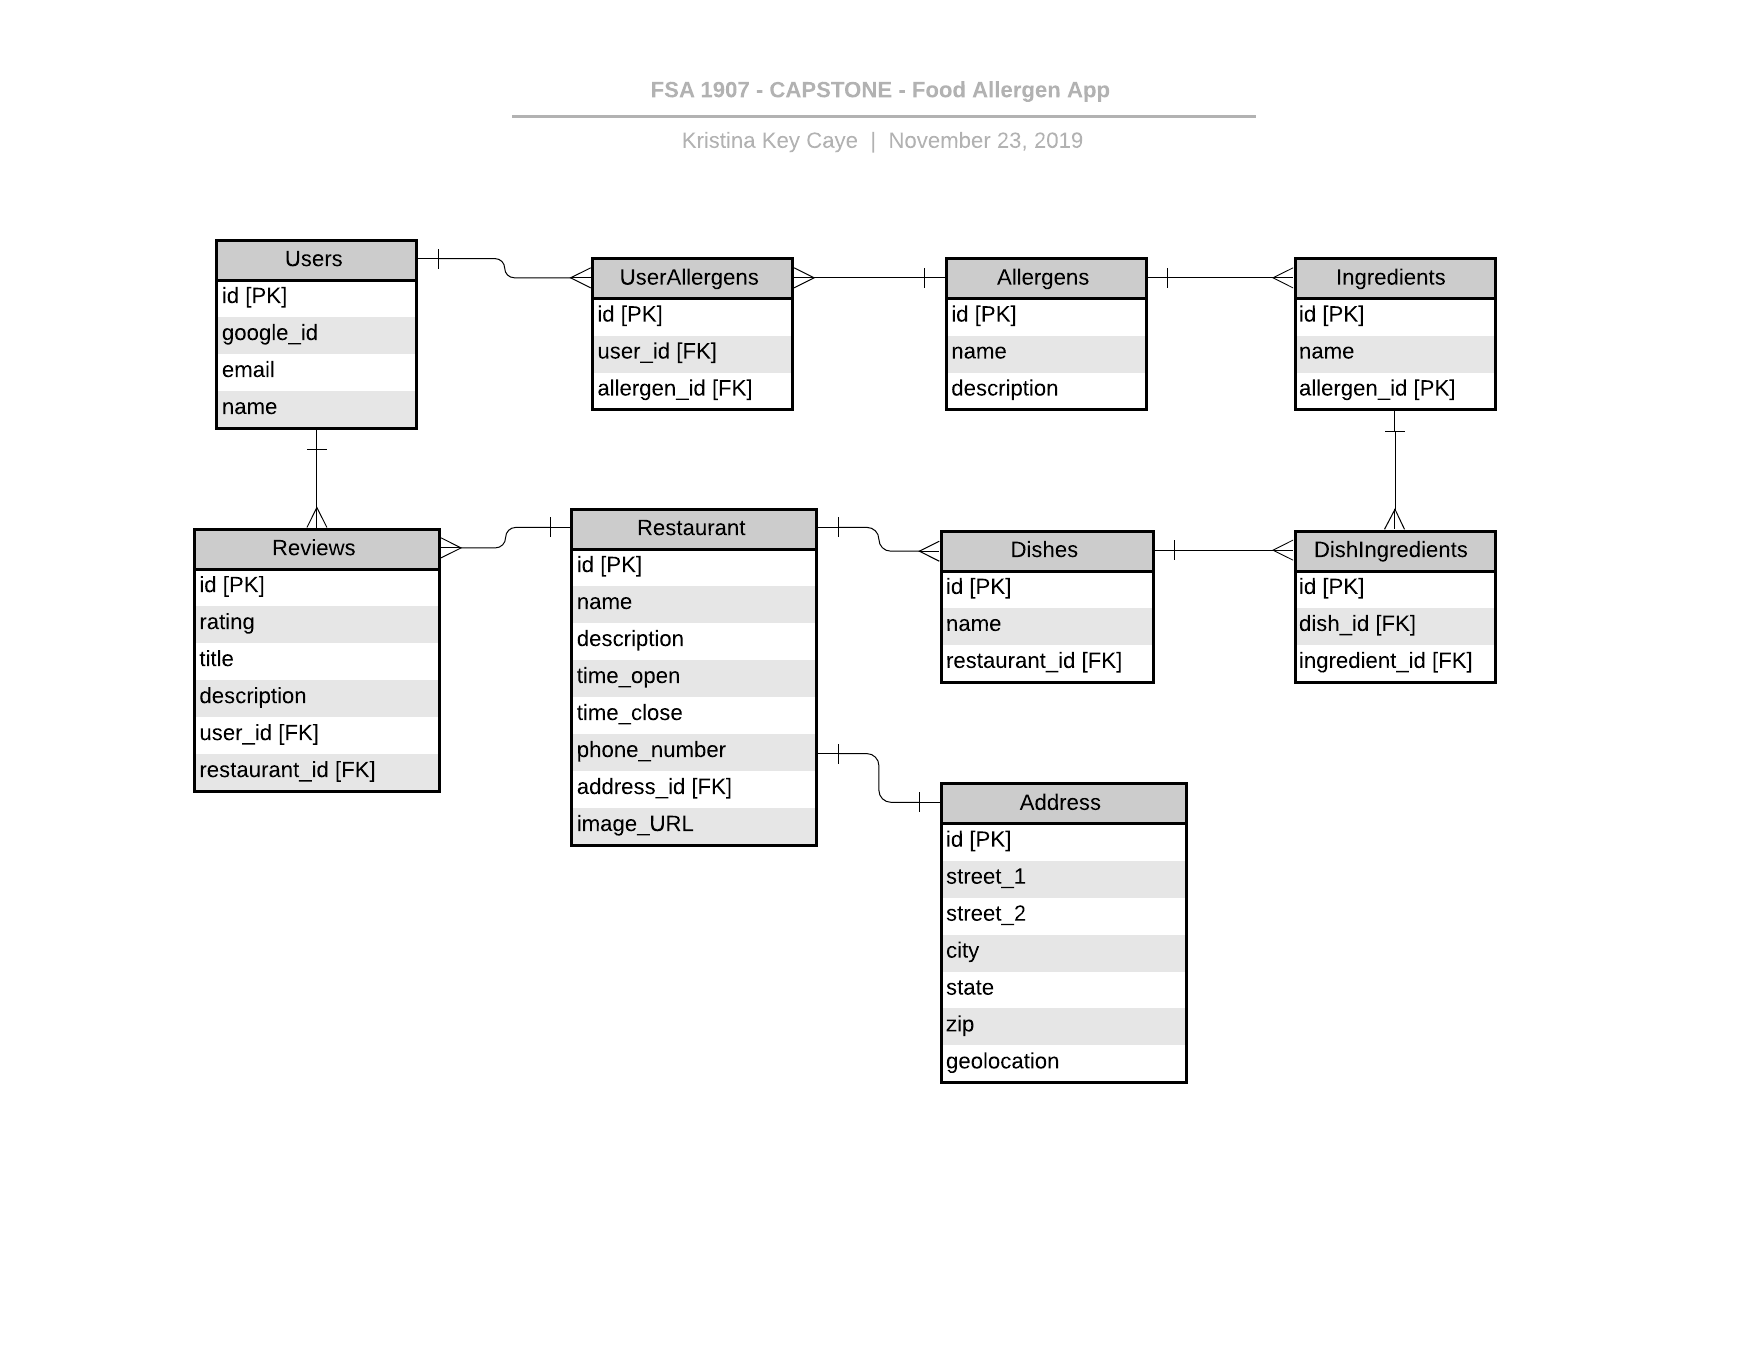
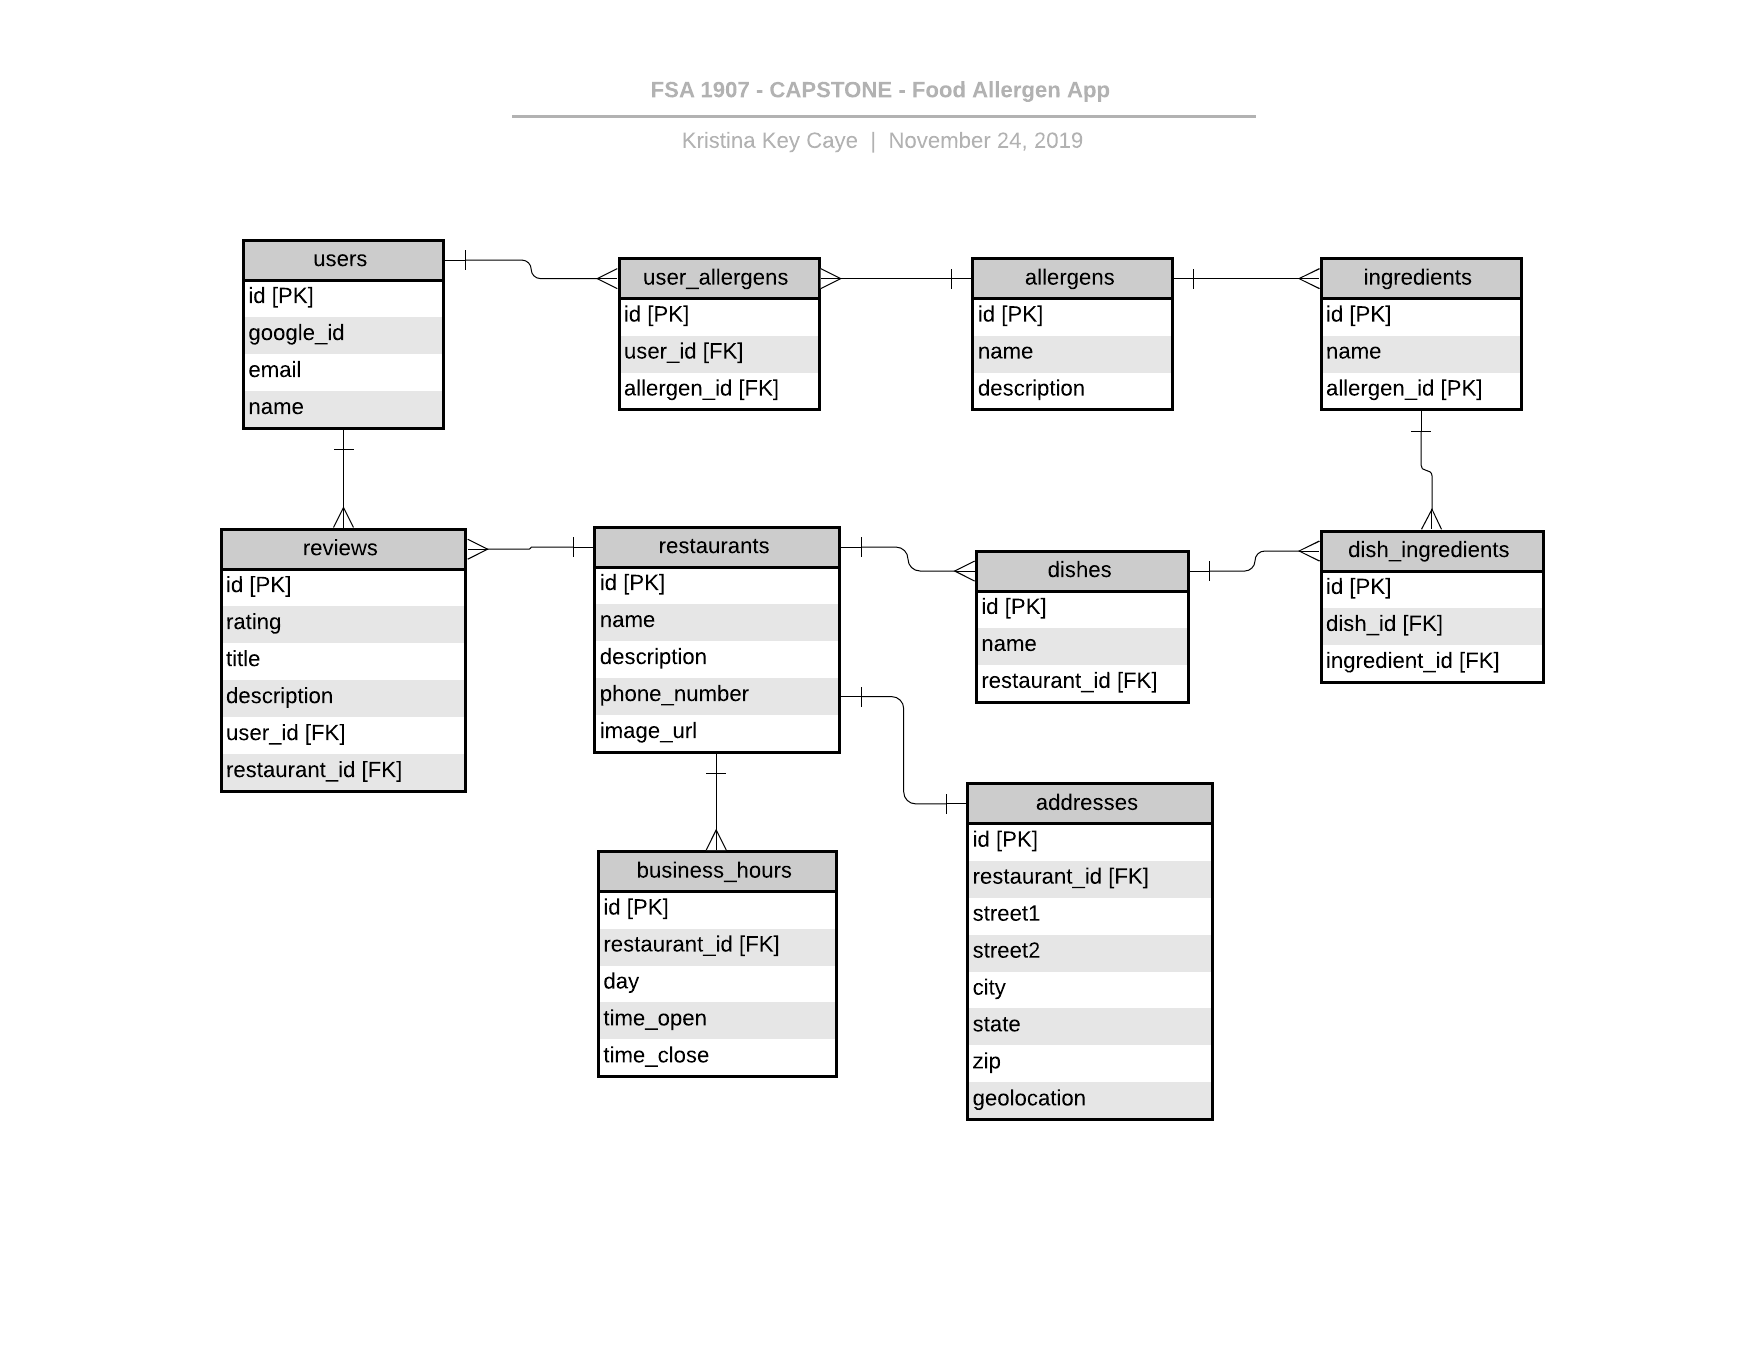
added model definition

diff --git a/server/db/index.js b/server/db/index.js
@@ -1,9 +1,42 @@
 const connection = require('./connection');
+const Users = require('./models/Users');
+const UserAllergens = require('./models/UserAllergens');
+const Allergens = require('./models/Allergens');
+const Ingredients = require('./models/Ingredients');
+const DishIngredients = require('./models/DishIngredients');
+const Dishes = require('./models/Dishes');
+const Restaurants = require('./models/Restaurants');
+const BusinessHours = require('./models/BusinessHours');
+const Addresses = require('./models/Addresses');
+const Reviews = require('./models/Reviews');
+
+const models = {
+    Users,
+    UserAllergens,
+    Allergens,
+    Ingredients,
+    DishIngredients,
+    Dishes,
+    Restaurants,
+    BusinessHours,
+    Addresses,
+    Reviews
+};
+
+Users.associate(models)
+Allergens.associate(models)
+Ingredients.associate(models)
+Dishes.associate(models)
+Restaurants.associate(models)
+BusinessHours.associate(models)
+Addresses.associate(models)
+Reviews.associate(models)
 
 const sync = async (force = true) => {
     await connection.sync({ force });
 };
 
 module.exports = {
-    sync
+    sync,
+    models
 }

diff --git a/server/db/models/Restaurants.js b/server/db/models/Restaurants.js
@@ -1,0 +1,45 @@
+const connection = require('../connection');
+const { Sequelize } = connection;
+const { UUID, UUIDV4, STRING, TEXT } = Sequelize;
+
+const Restaurants = connection.define('restaurants', {
+    id: {
+        type: UUID,
+        primaryKey: true,
+        defaultValue: UUIDV4
+    },
+    name: {
+        type: STRING,
+        allowNull: false
+    },
+    description: {
+        type: TEXT
+    },
+    phone: {
+        type: STRING
+    },
+    imageUrl: {
+        type: STRING,
+        field: 'image_url',
+        validate: {
+            isUrl: true
+        }
+    }
+});
+
+Restaurants.associate = (models) => {
+    Restaurants.hasMany(models.Reviews, {
+        foreignKey: 'restaurant_id'
+    })
+    Restaurants.hasMany(models.Dishes, {
+        foreignKey: 'restaurant_id'
+    })
+    Restaurants.hasMany(models.BusinessHours, {
+        foreignKey: 'restaurant_id'
+    })
+    Restaurants.hasOne(models.Addresses, {
+        foreignKey: 'restaurant_id'
+    })
+}
+
+module.exports = Restaurants;

diff --git a/server/db/models/Addresses.js b/server/db/models/Addresses.js
@@ -1,0 +1,45 @@
+const connection = require('../connection');
+const { Sequelize } = connection;
+const { UUID, UUIDV4, STRING, ARRAY } = Sequelize;
+
+const Addresses = connection.define('addresses', {
+    id: {
+        type: UUID,
+        primaryKey: true,
+        defaultValue: UUIDV4
+    },
+    street1: {
+        type: STRING,
+        allowNull: false
+    },
+    street2: {
+        type: STRING
+    },
+    city: {
+        type: STRING,
+        allowNull: false
+    },
+    state: {
+        type: STRING,
+        allowNull: false
+    },
+    country: {
+        type: STRING,
+        allowNull: false
+    },
+    zip: {
+        type: STRING,
+        allowNull: false
+    },
+    geolocation: {
+        type: ARRAY(STRING)
+    }
+});
+
+Addresses.associate = (models) => {
+    Addresses.belongsTo(models.Restaurants, {
+        foreignKey: 'restaurant_id'
+    })
+}
+
+module.exports = Addresses;

diff --git a/server/db/models/Allergens.js b/server/db/models/Allergens.js
@@ -1,0 +1,33 @@
+const connection = require('../connection');
+const { Sequelize } = connection;
+const { UUID, UUIDV4, STRING, TEXT } = Sequelize;
+
+const Allergens = connection.define('allergens', {
+    id: {
+        type: UUID,
+        primaryKey: true,
+        defaultValue: UUIDV4
+    },
+    name: {
+        type: STRING,
+        allowNull: false
+    },
+    description: {
+        type: TEXT,
+    }
+});
+
+Allergens.associate = (models) => {
+    Allergens.belongsToMany(models.Users, {
+        through: 'user_allergens',
+        as: 'users',
+        foreignKey: 'allergen_id'
+    })
+    Allergens.hasMany(models.Ingredients, {
+        foreignKey: {
+            name: 'allergen_id'
+        }
+    })
+}
+
+module.exports = Allergens;

diff --git a/server/db/models/Reviews.js b/server/db/models/Reviews.js
@@ -1,0 +1,33 @@
+const connection = require('../connection');
+const { Sequelize } = connection;
+const { UUID, UUIDV4, STRING, INTEGER, TEXT } = Sequelize;
+
+const Reviews = connection.define('reviews', {
+    id: {
+        type: UUID,
+        primaryKey: true,
+        defaultValue: UUIDV4
+    },
+    rating: {
+        type: INTEGER,
+        allowNull: false,
+        validate: { min: 1, max: 5 }
+    },
+    title: {
+        type: STRING,
+    },
+    description: {
+        type: TEXT,
+    }
+});
+
+Reviews.associate = (models) => {
+    Reviews.belongsTo(models.Users, {
+        foreignKey: 'user_id'
+    })
+    Reviews.belongsTo(models.Restaurants, {
+        foreignKey: 'restaurant_id'
+    })
+}
+
+module.exports = Reviews;

diff --git a/server/db/models/BusinessHours.js b/server/db/models/BusinessHours.js
@@ -1,0 +1,30 @@
+const connection = require('../connection');
+const { Sequelize } = connection;
+const { UUID, UUIDV4, TIME, ENUM } = Sequelize;
+
+const BusinessHours = connection.define('business_hours', {
+    id: {
+        type: UUID,
+        primaryKey: true,
+        defaultValue: UUIDV4
+    },
+    day: {
+        type: ENUM('MON', 'TUE', 'WED', 'THUR', 'FRI', 'SAT', 'SUN')
+    },
+    timeOpen: {
+        type: TIME,
+        field: 'time_open'
+    },
+    timeClose: {
+        type: TIME,
+        field: 'time_close'
+    }
+});
+
+BusinessHours.associate = (models) => {
+    BusinessHours.belongsTo(models.Restaurants, {
+        foreignKey: 'restaurant_id'
+    })
+}
+
+module.exports = BusinessHours;

diff --git a/server/db/models/Users.js b/server/db/models/Users.js
@@ -2,7 +2,7 @@ const connection = require('../connection');
 const { Sequelize } = connection;
 const { UUID, UUIDV4, STRING } = Sequelize;
 
-module.exports = connection.define('user', {
+const Users = connection.define('users', {
   id: {
     type: UUID,
     primaryKey: true,
@@ -21,6 +21,20 @@ module.exports = connection.define('user', {
   },
   googleId: {
     type: STRING,
-    unique: true
+    unique: true,
+    field: 'google_id'
   }
 });
+
+Users.associate = (models) => {
+  Users.belongsToMany(models.Allergens, {
+    through: 'user_allergens',
+    as: 'allergies',
+    foreignKey: 'user_id'
+  })
+  Users.hasMany(models.Reviews, {
+    foreignKey: 'user_id'
+})
+}
+
+module.exports = Users;

diff --git a/server/db/models/Ingredients.js b/server/db/models/Ingredients.js
@@ -1,0 +1,28 @@
+const connection = require('../connection');
+const { Sequelize } = connection;
+const { UUID, UUIDV4, STRING } = Sequelize;
+
+const Ingredients = connection.define('ingredients', {
+    id: {
+        type: UUID,
+        primaryKey: true,
+        defaultValue: UUIDV4
+    },
+    name: {
+        type: STRING,
+        allowNull: false
+    }
+});
+
+Ingredients.associate = (models) => {
+    Ingredients.belongsTo(models.Allergens, {
+        foreignKey: 'allergen_id'
+    })
+    Ingredients.belongsToMany(models.Dishes, {
+        through: 'dish_ingredients',
+        as: 'dishes',
+        foreignKey: 'ingredient_id'
+    })
+}
+
+module.exports = Ingredients;

diff --git a/server/db/models/Dishes.js b/server/db/models/Dishes.js
@@ -1,0 +1,28 @@
+const connection = require('../connection');
+const { Sequelize } = connection;
+const { UUID, UUIDV4, STRING } = Sequelize;
+
+const Dishes = connection.define('dishes', {
+    id: {
+        type: UUID,
+        primaryKey: true,
+        defaultValue: UUIDV4
+    },
+    name: {
+        type: STRING,
+        allowNull: false
+    }
+});
+
+Dishes.associate = (models) => {
+    Dishes.belongsTo(models.Restaurants, {
+        foreignKey: 'restaurant_id'
+    })
+    Dishes.belongsToMany(models.Ingredients, {
+        through: 'dish_ingredients',
+        as: 'ingredients',
+        foreignKey: 'dish_id'
+    })
+}
+
+module.exports = Dishes;

diff --git a/server/db/models/DishIngredients.js b/server/db/models/DishIngredients.js
@@ -1,0 +1,13 @@
+const connection = require('../connection');
+const { Sequelize } = connection;
+const { UUID, UUIDV4 } = Sequelize;
+
+const DishIngredients = connection.define('dish_ingredients', {
+  id: {
+    type: UUID,
+    primaryKey: true,
+    defaultValue: UUIDV4
+  }
+});
+
+module.exports = DishIngredients;

diff --git a/server/db/models/UserAllergens.js b/server/db/models/UserAllergens.js
@@ -1,0 +1,13 @@
+const connection = require('../connection');
+const { Sequelize } = connection;
+const { UUID, UUIDV4 } = Sequelize;
+
+const UserAllergens = connection.define('user_allergens', {
+  id: {
+    type: UUID,
+    primaryKey: true,
+    defaultValue: UUIDV4
+  }
+});
+
+module.exports = UserAllergens;
